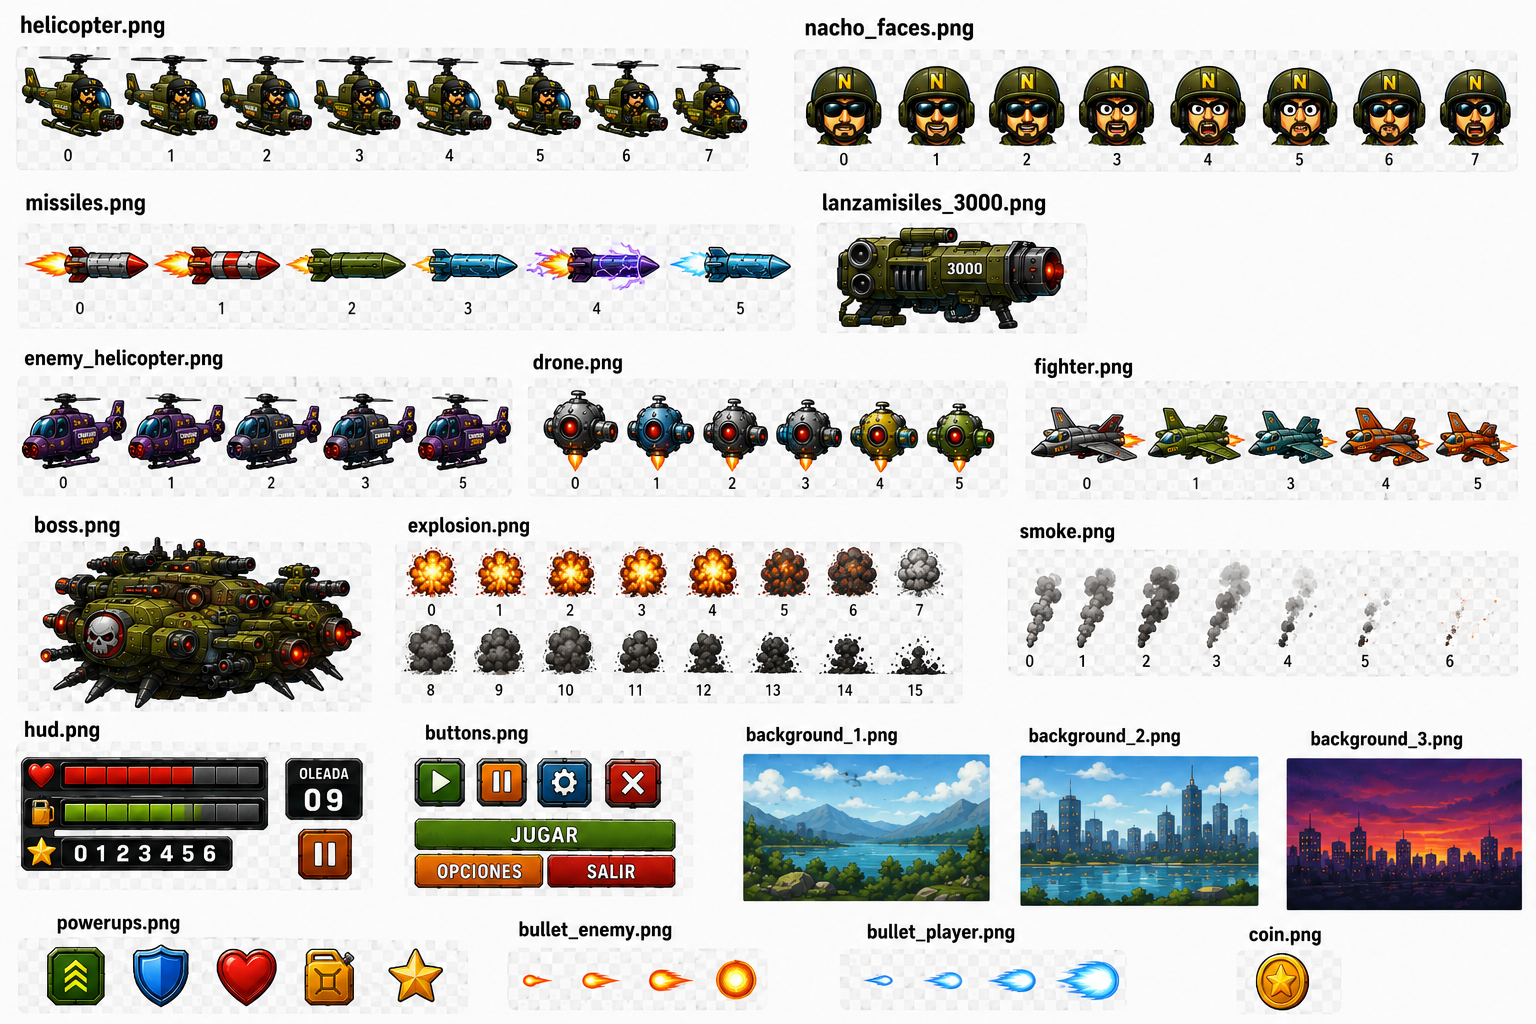
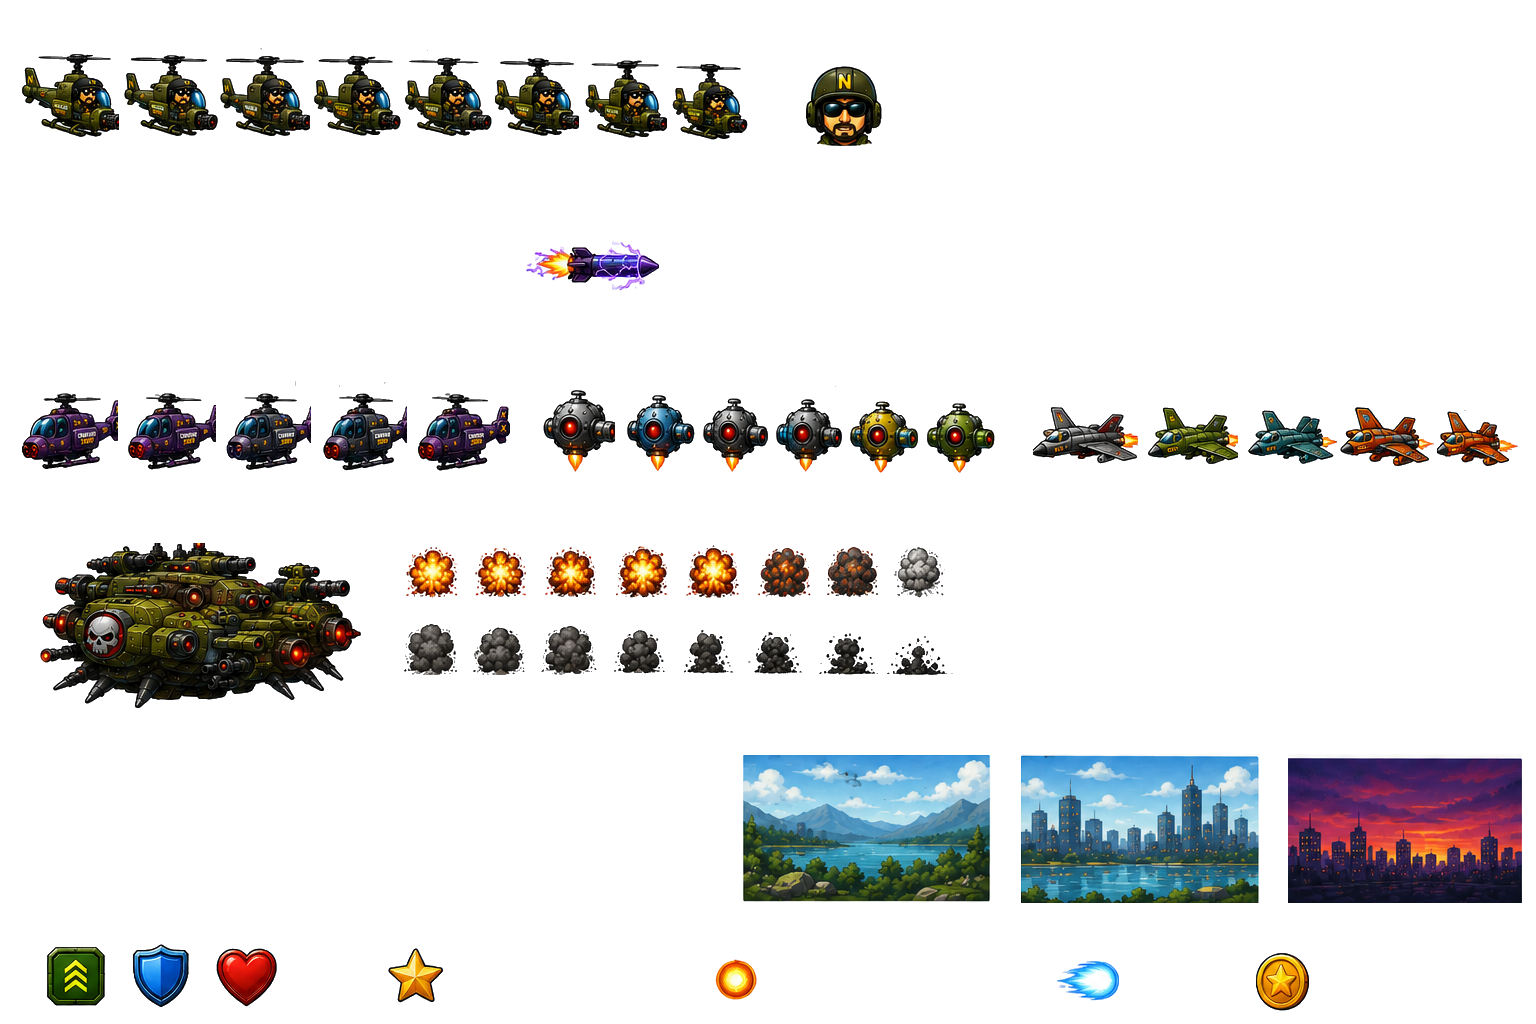
perf: limpiar el fondo de la lámina offline (transparencia real, 2023→990 KB)

diff --git a/plans/herramientas/limpiar-lamina.py b/plans/herramientas/limpiar-lamina.py
@@ -1,0 +1,127 @@
+# QA 2.4 — Limpieza offline de juego-nacho.png
+# Replica exactamente cutSprite de game.js: flood-fill de fondo desde bordes
+# + eliminación de islas pequeñas que tocan borde (<7.5% del área del crop).
+# Las regiones de fondo (paisajes, dibujadas en crudo por drawBackground) se
+# conservan byte a byte; el resto de la lámina queda transparente.
+import json
+import sys
+
+import numpy as np
+from PIL import Image
+from scipy import ndimage
+
+# Crops actuales de game.js (post fase 1)
+CROPS_PROCESADOS = {
+    "player": [[18, 47, 101, 99], [119, 47, 103, 99], [218, 47, 102, 99], [310, 47, 99, 99],
+               [402, 47, 99, 99], [492, 47, 96, 99], [579, 47, 98, 99], [667, 47, 83, 99]],
+    "face": [[796, 49, 95, 101]],
+    "missile": [[519, 229, 140, 82]],
+    "enemyHeli": [[18, 380, 105, 95], [118, 380, 106, 95], [216, 380, 101, 95],
+                  [311, 380, 103, 95], [407, 380, 103, 95]],
+    "drone": [[533, 380, 83, 96], [615, 380, 84, 96], [696, 380, 81, 96],
+              [772, 380, 81, 96], [849, 380, 80, 96], [925, 380, 82, 96]],
+    "fighter": [[1033, 383, 116, 88], [1138, 383, 112, 88], [1238, 383, 108, 88],
+                [1337, 383, 109, 88], [1437, 383, 82, 88]],
+    "boss": [[31, 543, 337, 166]],
+    "explosion": [[397, 541, 67, 68], [467, 541, 67, 68], [538, 541, 68, 68], [611, 541, 68, 68],
+                  [683, 541, 69, 68], [754, 541, 69, 68], [824, 541, 69, 68], [893, 541, 68, 68],
+                  [397, 615, 68, 76], [467, 615, 68, 76], [538, 615, 69, 76], [610, 615, 69, 76],
+                  [682, 615, 70, 76], [753, 615, 70, 76], [824, 615, 70, 76], [893, 615, 69, 76]],
+    "enemyBullet": [[706, 943, 61, 67]],
+    "playerBullet": [[1057, 945, 76, 67]],
+    "coin": [[1245, 942, 90, 81]],
+    "powerups": [[35, 942, 84, 80], [120, 942, 85, 80], [205, 942, 85, 80], [377, 942, 88, 80]],
+}
+CROPS_CRUDOS = {
+    "backgrounds": [[743, 755, 248, 148], [1021, 754, 238, 149], [1288, 754, 234, 149]],
+}
+
+
+def djb2(data: bytes) -> int:
+    h = 5381
+    for byte in data:
+        h = ((h * 33) + byte) & 0xFFFFFFFF
+    return h
+
+
+def processar_crop(region: np.ndarray) -> np.ndarray:
+    """Replica exacta de cutSprite (flood-fill + islas pequeñas)."""
+    out = region.copy()
+    h, w = out.shape[:2]
+    r = out[..., 0].astype(np.int64)
+    g = out[..., 1].astype(np.int64)
+    b = out[..., 2].astype(np.int64)
+    mx = np.maximum(np.maximum(r, g), b)
+    mn = np.minimum(np.minimum(r, g), b)
+    bg = ((mx - mn) < 19) & (((r + g + b) / 3.0) > 204.0)
+
+    reach = np.zeros((h, w), dtype=bool)
+    reach[0, :] = bg[0, :]
+    reach[-1, :] = bg[-1, :]
+    reach[:, 0] |= bg[:, 0]
+    reach[:, -1] |= bg[:, -1]
+    while True:
+        grow = reach.copy()
+        grow[1:, :] |= reach[:-1, :]
+        grow[:-1, :] |= reach[1:, :]
+        grow[:, 1:] |= reach[:, :-1]
+        grow[:, :-1] |= reach[:, 1:]
+        grow &= bg
+        if np.array_equal(grow, reach):
+            break
+        reach = grow
+    out[..., 3][reach] = 0
+
+    limite = w * h * 0.075
+    fg = out[..., 3] > 0
+    etiquetas, n = ndimage.label(fg)  # 4-conectividad por defecto, como el BFS del JS
+    for i in range(1, n + 1):
+        comp = etiquetas == i
+        tam = int(comp.sum())
+        toca = bool(comp[0, :].any() or comp[-1, :].any() or comp[:, 0].any() or comp[:, -1].any())
+        if toca and tam < limite:
+            out[..., 3][comp] = 0
+    return out
+
+
+def main():
+    origen = sys.argv[1] if len(sys.argv) > 1 else "assets/juego-nacho.png"
+    destino = sys.argv[2] if len(sys.argv) > 2 else ".qa-opt/juego-nacho-limpio.png"
+    hoja = np.asarray(Image.open(origen).convert("RGBA")).copy()
+    limpia = np.zeros_like(hoja)  # todo transparente
+    hashes = {}
+    solapados = 0
+
+    def solapa(c1, c2):
+        x1, y1, w1, h1 = c1
+        x2, y2, w2, h2 = c2
+        return not (x1 + w1 <= x2 or x2 + w2 <= x1 or y1 + h1 <= y2 or y2 + h2 <= y1)
+
+    todos_los_crops = [c for lista in CROPS_PROCESADOS.values() for c in lista]
+    for i in range(len(todos_los_crops)):
+        for j in range(i + 1, len(todos_los_crops)):
+            if solapa(todos_los_crops[i], todos_los_crops[j]):
+                solapados += 1
+
+    for nombre, lista in CROPS_PROCESADOS.items():
+        for k, (sx, sy, sw, sh) in enumerate(lista):
+            region = hoja[sy:sy + sh, sx:sx + sw]
+            procesada = processar_crop(region)
+            limpia[sy:sy + sh, sx:sx + sw] = procesada
+            hashes[f"{nombre}[{k}]"] = djb2(procesada.tobytes())
+
+    for nombre, lista in CROPS_CRUDOS.items():
+        for k, (sx, sy, sw, sh) in enumerate(lista):
+            limpia[sy:sy + sh, sx:sx + sw] = hoja[sy:sy + sh, sx:sx + sw]
+            hashes[f"{nombre}[{k}]"] = djb2(hoja[sy:sy + sh, sx:sx + sw].tobytes())
+
+    Image.fromarray(limpia, "RGBA").save(destino, optimize=True)
+    with open(".qa-opt/hashes-python.json", "w") as fh:
+        json.dump(hashes, fh, indent=1)
+    print(f"crops solapados: {solapados} (debe ser 0)")
+    print(f"lámina limpia: {destino}")
+    print(f"hashes: {len(hashes)} -> .qa-opt/hashes-python.json")
+
+
+if __name__ == "__main__":
+    main()

diff --git a/plans/registro-ejecucion.md b/plans/registro-ejecucion.md
@@ -194,3 +194,9 @@ si es una decisión tomada a mitad de camino).
 - **Estado:** sin cambio (completada)
 - **Nota:** Verificación e2e: pickups flotando y recogidos en partida real (5 monedas coleccionadas en oleada 3-4, collectPickup ejecutado sin errores). Equivalencia por construcción: los tipos rapid/shield/heart/star mapean a los mismos rects [35/120/205/377,942,...] que antes; el índice 3 eliminado no estaba referenciado por ningún tipo. Capturas en gui-test-screenshots/f1_*.png
 
+### [2026-10-10 16:54] 2.1 — Optimizar los 5 PNG (5,6 MB)
+- **Estado:** pendiente → en_curso
+
+### [2026-10-10 17:00] 2.4 — Limpiar la lámina juego-nacho.png offline
+- **Estado:** pendiente → en_curso
+
